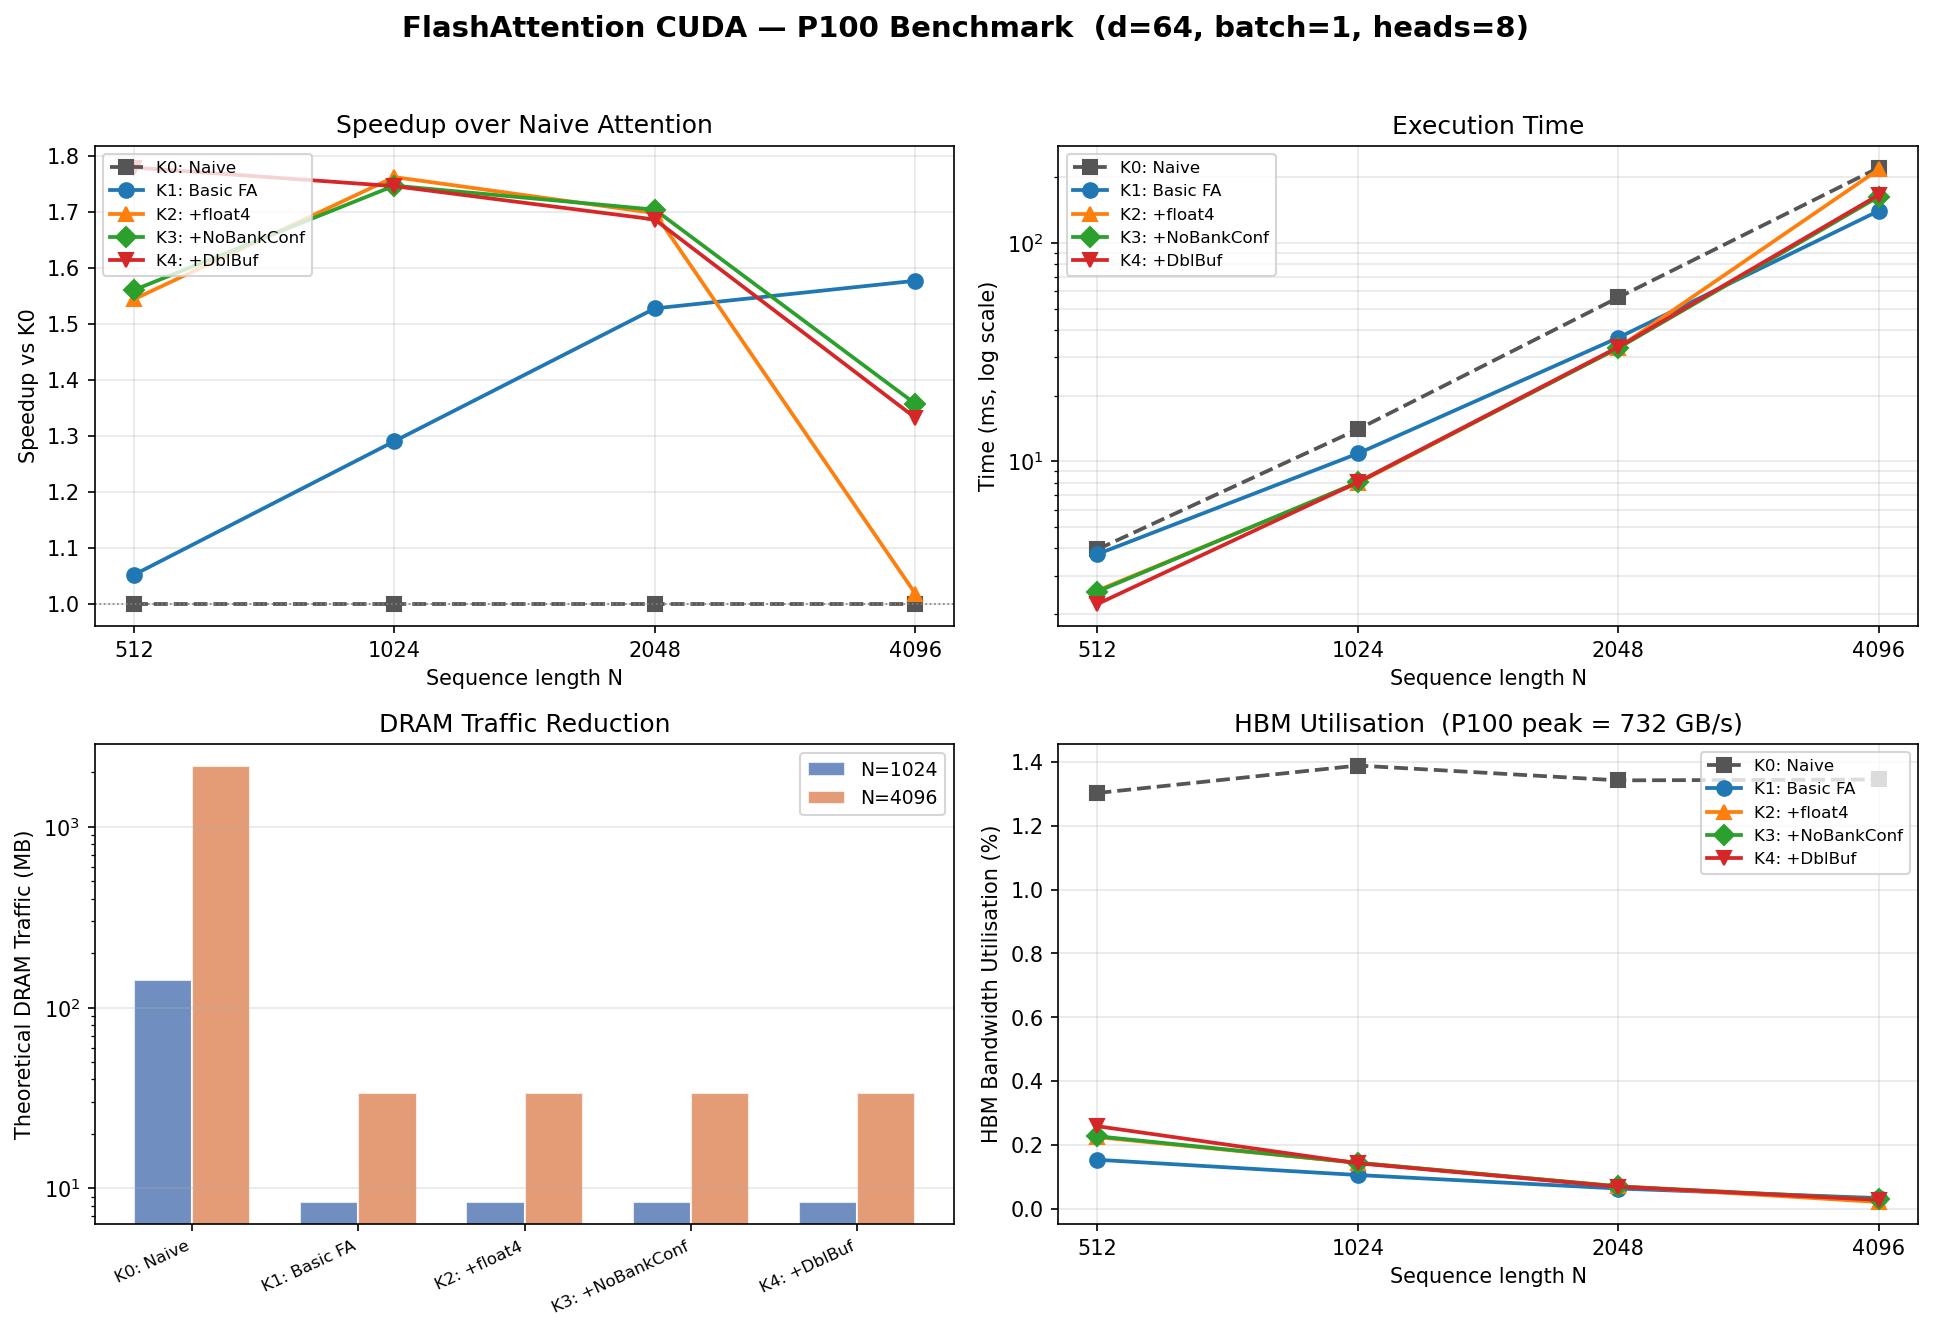
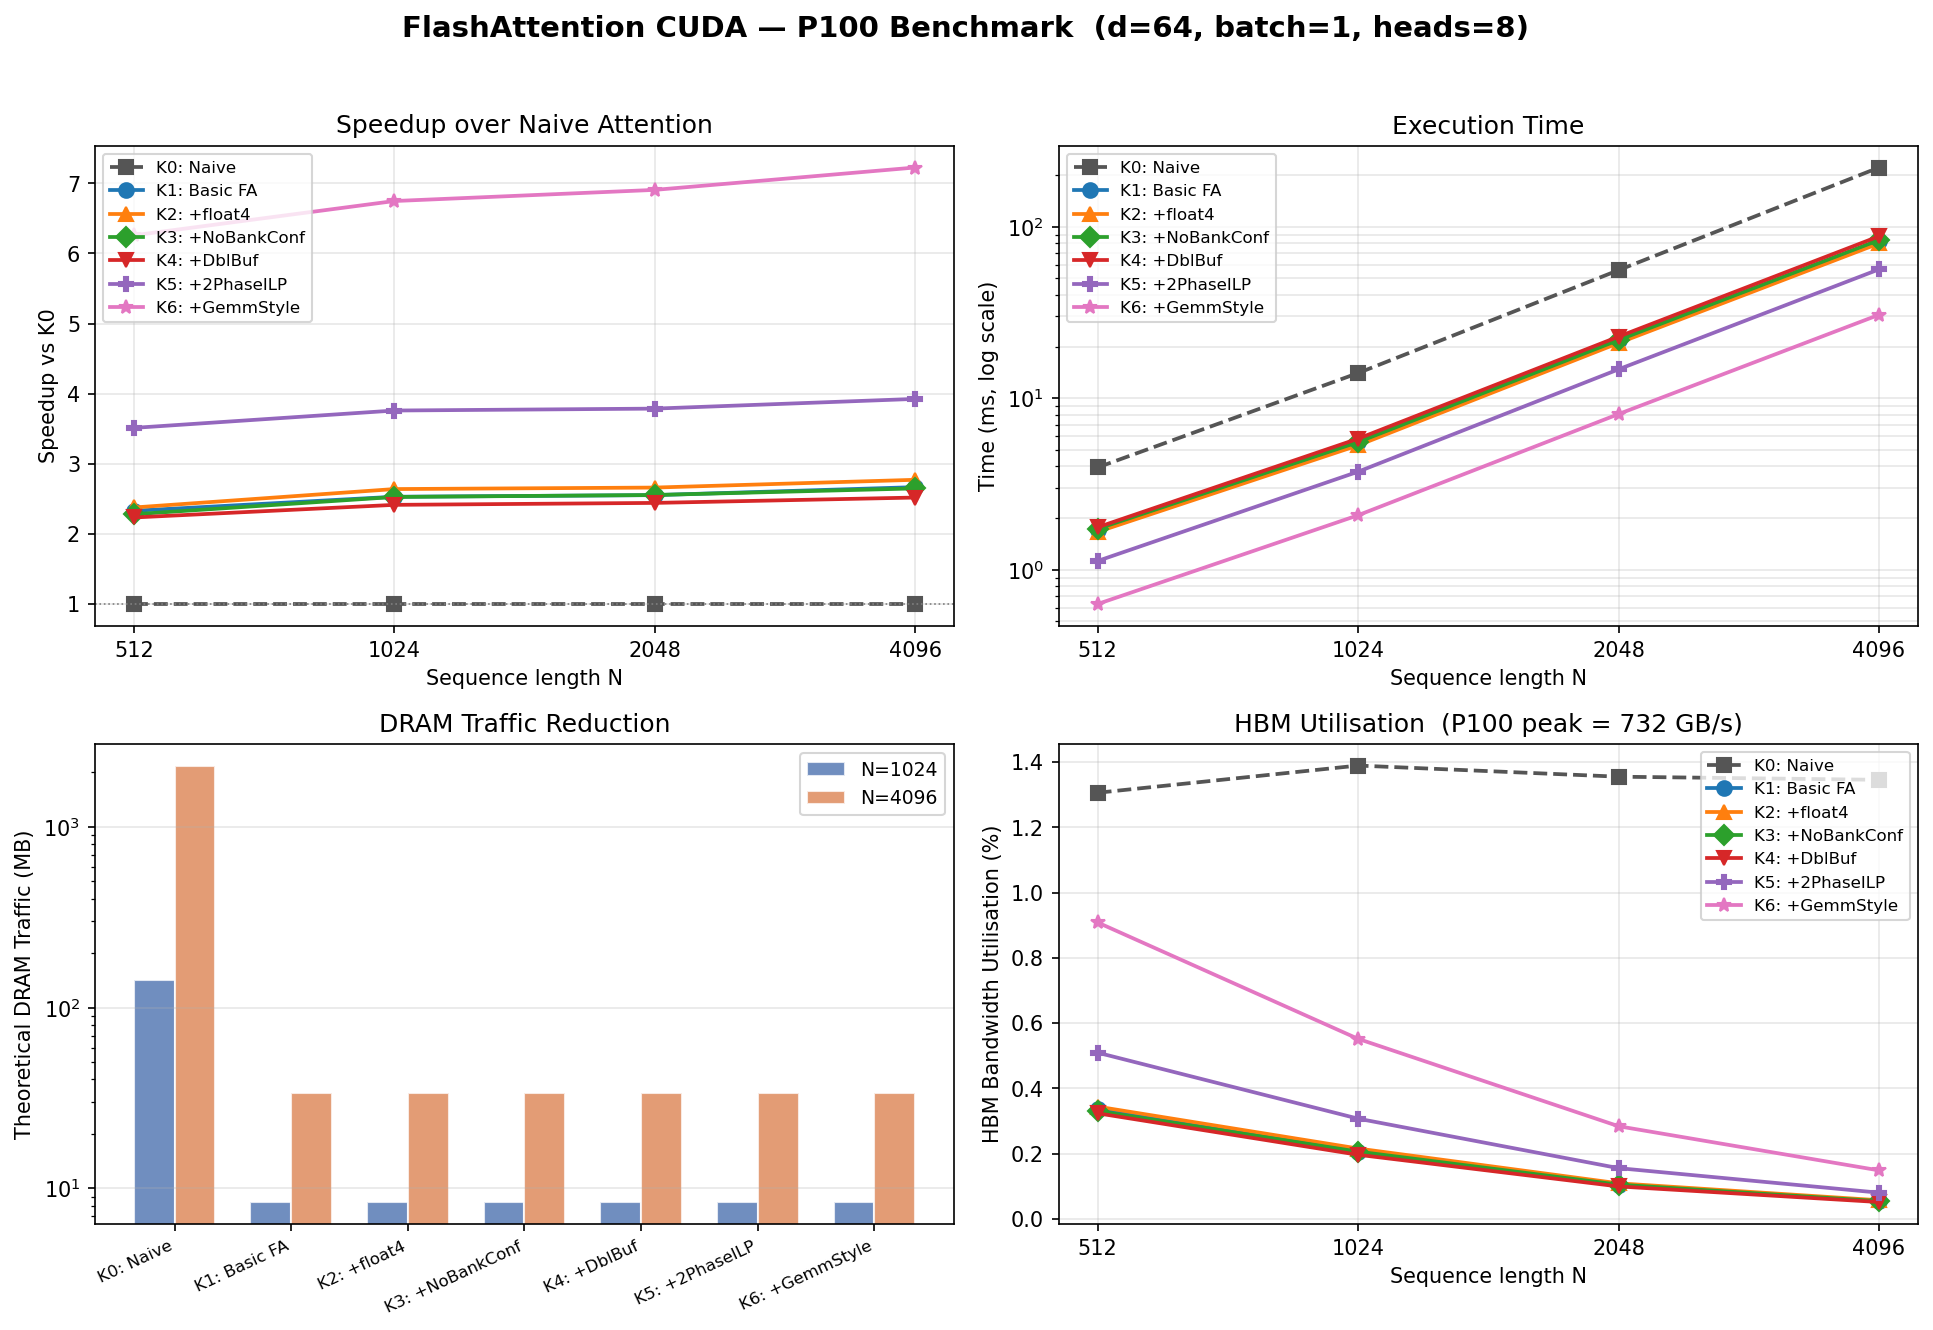
添加k5 k6

diff --git a/README.md b/README.md
@@ -12,16 +12,17 @@
 
 *Batch=1, Heads=8, d=64, P100 (732 GB/s HBM)。图表可在增加 K5/K6 数据后通过 `python bench/plot_results.py` 重新生成。*
 
-### 数值汇总（K0–K4 实测，K5/K6 待集群运行）
+### 数值汇总（K0–K6 实测，P100）
 
-| N | K0 (ms) | K1 | K2 | K3 | K4 |
-|---|---------|----|----|----|----|
-| 512  | 3.96 | 3.76 (1.05×) | 2.56 (1.54×) | 2.53 (1.56×) | **2.22 (1.78×)** |
-| 1024 | 14.02 | 10.86 (1.29×) | 7.95 (1.76×) | 8.02 (1.75×) | **7.98 (1.75×)** |
-| 2048 | 56.33 | 36.87 (1.53×) | 33.17 (1.70×) | 33.05 (1.70×) | **33.40 (1.69×)** |
-| 4096 | 221.5 | 140.4 (1.58×) | 217.5 (1.02×) | 163.2 (1.36×) | **166.2 (1.33×)** |
+| N | K0 (ms) | K1 | K2 | K3 | K4 | K5 | K6 |
+|---|---------|----|----|----|----|----|----|
+| 512  | 3.95 | 1.69 (2.33×) | 1.66 (2.38×) | 1.73 (2.28×) | 1.77 (2.23×) | 1.12 (3.51×) | **0.63 (6.26×)** |
+| 1024 | 14.02 | 5.54 (2.53×) | 5.31 (2.64×) | 5.55 (2.53×) | 5.81 (2.41×) | 3.73 (3.76×) | **2.08 (6.75×)** |
+| 2048 | 55.81 | 21.86 (2.55×) | 20.98 (2.66×) | 21.85 (2.55×) | 22.86 (2.44×) | 14.74 (3.79×) | **8.08 (6.91×)** |
+| 4096 | 221.5 | 83.1 (2.67×) | 79.9 (2.77×) | 83.6 (2.65×) | 88.0 (2.52×) | 56.4 (3.93×) | **30.7 (7.23×)** |
 
-DRAM 流量：K0 在 N=4096 产生 **2181 MB**（N² 矩阵），K1–K4 仅 **33.6 MB**（64× 减少）。
+DRAM 流量：K0 在 N=4096 产生 **2181 MB**（N² 矩阵），K1–K6 仅 **33.6 MB**（65× 减少）。
+K6 的 HBM 利用率在 N=512 达到 **0.91%**（K0 为 1.31%），相比 K1–K4 的 0.1–0.3% 提升约 3–4×。
 
 ---
 
